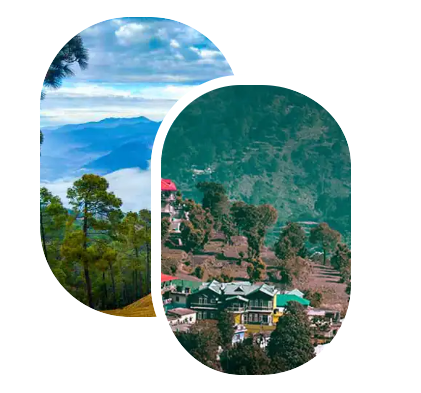
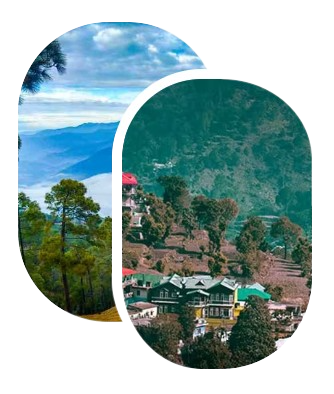
Category

diff --git a/src/Components/homepage/HomePage.module.css b/src/Components/homepage/HomePage.module.css
@@ -1,39 +1,37 @@
 .first_section {
   background: linear-gradient(to right, rgb(212, 240, 255, 0.3), white);
   width: 100%;
-  height: 650px;
+  height: fit-content;
   display: flex;
-  /* flex-wrap: wrap; */
-  justify-content: space-evenly;
+  justify-content: center;
   align-items: center;
-  padding: 0px 20px;
+  padding: 5% 10%;
 }
 
 .rounded_image_first {
   -webkit-user-drag: none;
 }
 
-/* .rounded_image_first { */
-/* position: absolute;
-  top: 50%;
+/* .rounded_image_first {
+  position: absolute;
+  top: 30%;
   left: 50%;
   transform: translate(-50%, -50%);
   display: inline-block;
   object-fit: cover;
   width: 200px;
-  height: 300px; */
-/* border-top-right-radius: 90px;
+  height: 300px;
+  border-top-right-radius: 90px;
   border-top-left-radius: 90px;
   border-bottom-right-radius: 90px;
-  border-bottom-left-radius: 90px; */
-/* } */
+  border-bottom-left-radius: 90px;
+}
 
-/* .rounded_image_first:nth-child(1) {
-  left: 40%;
+.rounded_image_first:nth-child(1) {
+  left: 38%;
 }
 .rounded_image_first:nth-child(2) {
-  left: 60%;
-  top: 60%;
+  top: 35%;
   border-top: 10px solid rgb(255, 255, 255);
   border-left: 10px solid rgb(255, 255, 255);
 } */
@@ -42,7 +40,7 @@
   display: flex;
   justify-content: center;
   align-items: center;
-  /* width: 50%; */
+  width: 50%;
   height: inherit;
 }
 
@@ -68,6 +66,13 @@
   width: 60%;
 }
 
+.right_side_first > button:hover {
+  animation-name: animate_learn_more;
+  animation-duration: 200ms;
+  animation-timing-function: ease-in-out;
+  animation-direction: alternate;
+  animation-fill-mode: forwards;
+}
 .right_side_first > button {
   padding: 10px 40px;
   background: linear-gradient(to right, rgb(0, 168, 255), rgb(2, 232, 255));
@@ -77,11 +82,83 @@
   margin-top: 8px;
 }
 
+.second_section {
+  position: relative;
+  width: 100%;
+  height: 630px;
+  display: flex;
+  flex-direction: column;
+  align-items: center;
+}
+
+.filter_outer {
+  position: absolute;
+  top: -44px;
+  display: flex;
+  justify-content: space-between;
+  width: 60%;
+  height: 80px;
+  border-radius: 15px;
+  box-shadow: rgba(100, 100, 111, 0.2) 0px 7px 29px 0px;
+  background-color: white;
+}
+
+.filter_outer > button {
+  height: inherit;
+  width: 200px;
+  background: linear-gradient(to left, rgb(0, 168, 255), rgb(2, 232, 255));
+  border-radius: 20px;
+  font-size: 20px;
+  color: white;
+}
+
+.filter_outer > button:hover {
+  animation-name: animate_search_button;
+  animation-duration: 200ms;
+  animation-timing-function: ease-in-out;
+  animation-direction: alternate;
+  animation-fill-mode: forwards;
+}
+
+@keyframes animate_search_button {
+  from {
+    background: linear-gradient(to left, rgb(0, 168, 255), rgb(2, 232, 255));
+  }
+  to {
+    background: linear-gradient(to right, rgb(0, 168, 255), rgb(2, 232, 255));
+  }
+}
+
+@keyframes animate_learn_more {
+  from {
+    background: linear-gradient(to right, rgb(0, 168, 255), rgb(2, 232, 255));
+  }
+  to {
+    background: linear-gradient(to left, rgb(0, 168, 255), rgb(2, 232, 255));
+  }
+}
+@keyframes animate_search_button {
+  from {
+    background: linear-gradient(to left, rgb(0, 168, 255), rgb(2, 232, 255));
+  }
+  to {
+    background: linear-gradient(to right, rgb(0, 168, 255), rgb(2, 232, 255));
+  }
+}
+
+.filter_outer > div {
+  display: flex;
+  align-items: center;
+  justify-content: space-around;
+  width: 100%;
+}
+
 @media only screen and (max-width: 1300px) {
   .first_section {
     display: flex;
     flex-direction: column;
     display: block;
+    padding: 0px 5%;
   }
 
   .right_side_first p {
@@ -89,8 +166,7 @@
   }
 
   .first_section {
-    padding-top: 20px;
-    height: 580px;
+    padding: 10% 0px;
   }
 
   .right_side_first,
@@ -116,11 +192,59 @@
     font-size: 18px;
     line-height: normal;
   }
+
+  .first_section {
+    padding: 10% 4%;
+  }
+
+  .filter_outer {
+    width: 85%;
+  }
 }
 
 @media only screen and (max-width: 738px) {
   .right_side_first {
     width: auto;
+    align-items: center;
+  }
+
+  .first_section {
+    padding: 15% 4%;
+  }
+}
+
+@media only screen and (max-width: 574px) {
+  .filter_outer > select {
+    display: block;
+  }
+
+  .filter_outer {
+    display: flex;
+    flex-direction: column;
+    justify-content: center;
+    align-items: center;
+    height: fit-content;
+    width: 90%;
+    padding: 30px 20px;
+    padding-bottom: 20px;
+    gap: 30px;
+  }
+
+  .filter_outer > div {
+    flex-direction: column;
+    gap: 8px;
+  }
+
+  .filter_outer select {
+    width: 100%;
+    box-shadow: rgba(0, 0, 0, 0.05) 0px 6px 24px 0px,
+      rgba(0, 0, 0, 0.08) 0px 0px 0px 1px;
+    cursor: pointer;
+    border-radius: 8px;
+  }
+
+  .filter_outer > button {
+    padding: 10px 20px;
   }
 }
 
@@ -128,5 +252,9 @@
   .right_side_first {
     width: auto;
     align-items: center;
+  }
+
+  .first_section {
+    padding: 30% 4%;
   }
 }

diff --git a/src/Components/homepage/filter/Filter.jsx b/src/Components/homepage/filter/Filter.jsx
@@ -1,0 +1,38 @@
+import React from "react";
+import styles from "../HomePage.module.css";
+
+function Filter() {
+  return (
+    <div className={styles.filter_outer}>
+      <div>
+        <select className="text-lg text-gray-500 bg-transparent border-0 appearance-none focus:outline-none focus:ring-0 focus:border-gray-200 peer">
+          <option value={""}>Location</option>
+          <option value="India">Assam</option>
+          <option value="India">Goa</option>
+        </select>
+        <select className="text-lg text-gray-500 bg-transparent border-0 appearance-none focus:outline-none focus:ring-0 focus:border-gray-200 peer">
+          <option value={""}>Category</option>
+          <option value="India">Flight</option>
+          <option value="India">Hotel</option>
+          <option value="India">Holiday</option>
+        </select>
+        <select className="text-lg text-gray-500 bg-transparent border-0 appearance-none focus:outline-none focus:ring-0 focus:border-gray-200 peer">
+          <option value={""}>People</option>
+          <option value="1">1</option>
+          <option value="2">2</option>
+          <option value="3">3</option>
+          <option value="4">4</option>
+          <option value="5">5</option>
+          <option value="6">6</option>
+          <option value="7">7</option>
+          <option value="8">8</option>
+          <option value="9">9</option>
+          <option value="10">10</option>
+        </select>
+      </div>
+      <button>Search</button>
+    </div>
+  );
+}
+
+export default Filter;

diff --git a/src/Components/navbar/Navbar.jsx b/src/Components/navbar/Navbar.jsx
@@ -4,6 +4,8 @@ import { Link, useLocation } from "react-router-dom";
 import { useSelector } from "react-redux";
 
 function Navbar({ isWhiteBackground, isOfferVisible }) {
+  const store = useSelector((state) => state.home);
+  console.log(store);
   const [sideBarHidden, setSideBarHidden] = useState(null);
   const [isAuth, setIsAuth] = useState(false);
   const email = undefined;
@@ -36,7 +38,7 @@ function Navbar({ isWhiteBackground, isOfferVisible }) {
         <div
           className={`${styles.navbar} max-w-screen-xl flex flex-wrap items-center justify-between mx-auto p-4`}>
           <div>
-            <span className="text-2xl font-semibold whitespace-nowrap">
+            <span className="text-3xl font-semibold whitespace-nowrap">
               Voyawander
             </span>
           </div>

diff --git a/src/Components/homepage/HomePage.jsx b/src/Components/homepage/HomePage.jsx
@@ -1,10 +1,12 @@
 import React from "react";
 import styles from "./HomePage.module.css";
 import roundImage from "./images/roundtwoimage.png";
+import Filter from "./filter/Filter";
 
 function HomePage() {
   return (
     <>
+      {/* first section  */}
       <div className={styles.first_section}>
         <div className={styles.left_side_first}>
           <img src={roundImage} className={styles.rounded_image_first} />
@@ -27,6 +29,11 @@ function HomePage() {
           </p>
           <button>Learn more</button>
         </div>
+      </div>
+
+      {/* second section */}
+      <div className={styles.second_section}>
+        <Filter />
       </div>
     </>
   );

diff --git a/src/index.js b/src/index.js
@@ -4,13 +4,17 @@ import "./index.css";
 import App from "./App";
 import reportWebVitals from "./reportWebVitals";
 import { BrowserRouter } from "react-router-dom";
+import { Provider } from "react-redux";
+import { store } from "./Redux/store";
 
 const root = ReactDOM.createRoot(document.getElementById("root"));
 root.render(
   <React.StrictMode>
-    <BrowserRouter>
-      <App />
-    </BrowserRouter>
+    <Provider store={store}>
+      <BrowserRouter>
+        <App />
+      </BrowserRouter>
+    </Provider>
   </React.StrictMode>
 );
 

diff --git a/src/Redux/store.js b/src/Redux/store.js
@@ -4,13 +4,8 @@ import thunk from "redux-thunk";
 
 // combine the reducers with combineReducer-->
 
-const homeInitalState = { isLoading: true, isError: false };
 const reducer = combineReducers({
   home: homeReducer,
 });
 
-export const store = legacy_createStore(
-  reducer,
-  homeInitalState,
-  applyMiddleware(thunk)
-);
+export const store = legacy_createStore(reducer, applyMiddleware(thunk));
